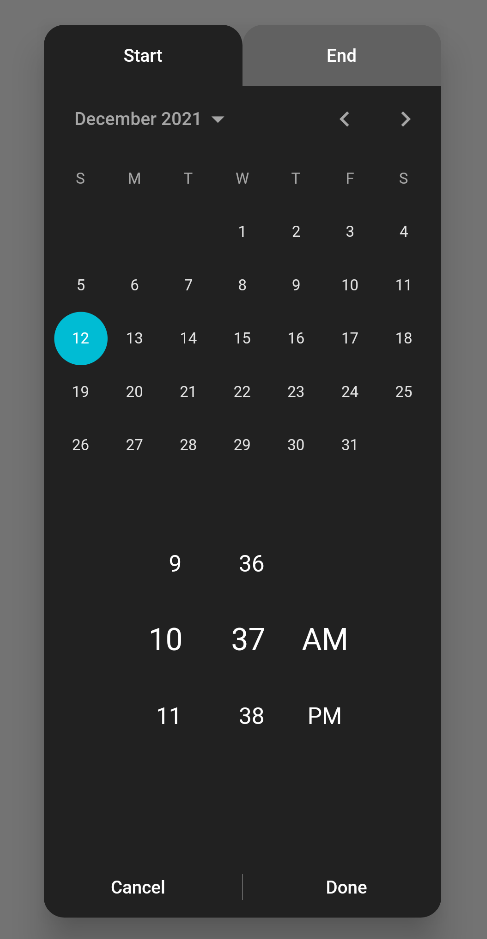
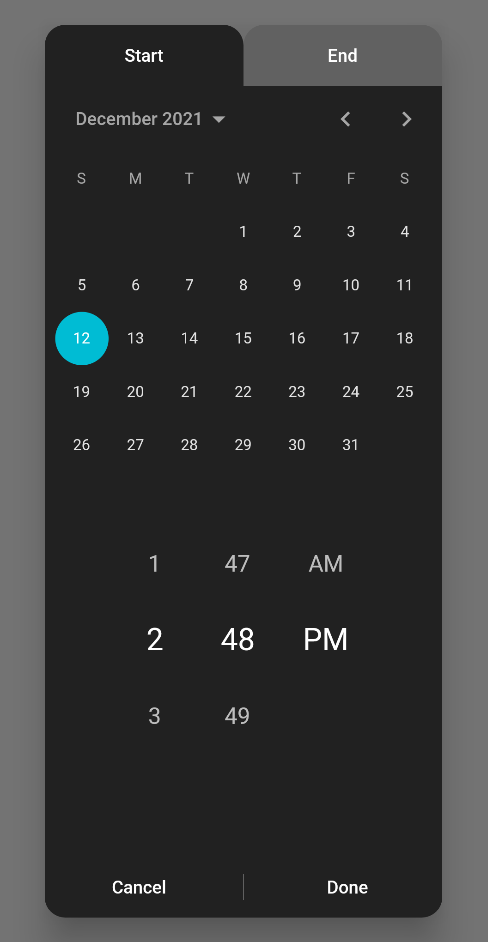
- Fixed time spinner alignment issue

diff --git a/lib/src/time_picker_spinner.dart b/lib/src/time_picker_spinner.dart
@@ -125,7 +125,7 @@ class _TimePickerSpinnerState extends State<TimePickerSpinner> {
   double defaultItemHeight = 60;
   double defaultItemWidth = 45;
   double defaultSpacing = 20;
-  AlignmentGeometry defaultAlignment = Alignment.centerRight;
+  AlignmentGeometry defaultAlignment = Alignment.center;
 
   /// getter
 

diff --git a/README.md b/README.md
@@ -25,7 +25,7 @@ Add this to your package's pubspec.yaml file and run `flutter pub get`:
 
 ```yaml
 dependencies:
-  omni_datetime_picker: ^0.0.3+1
+  omni_datetime_picker: ^0.0.4
 ```
 Now in your Dart code, you can use:
 

diff --git a/CHANGELOG.md b/CHANGELOG.md
@@ -1,3 +1,6 @@
+## 0.0.4
+Fixed time spinner alignment issue.
+
 ## 0.0.3+1
 Fixed bug where TimeSpinner is not showing passed startDateTime
 
